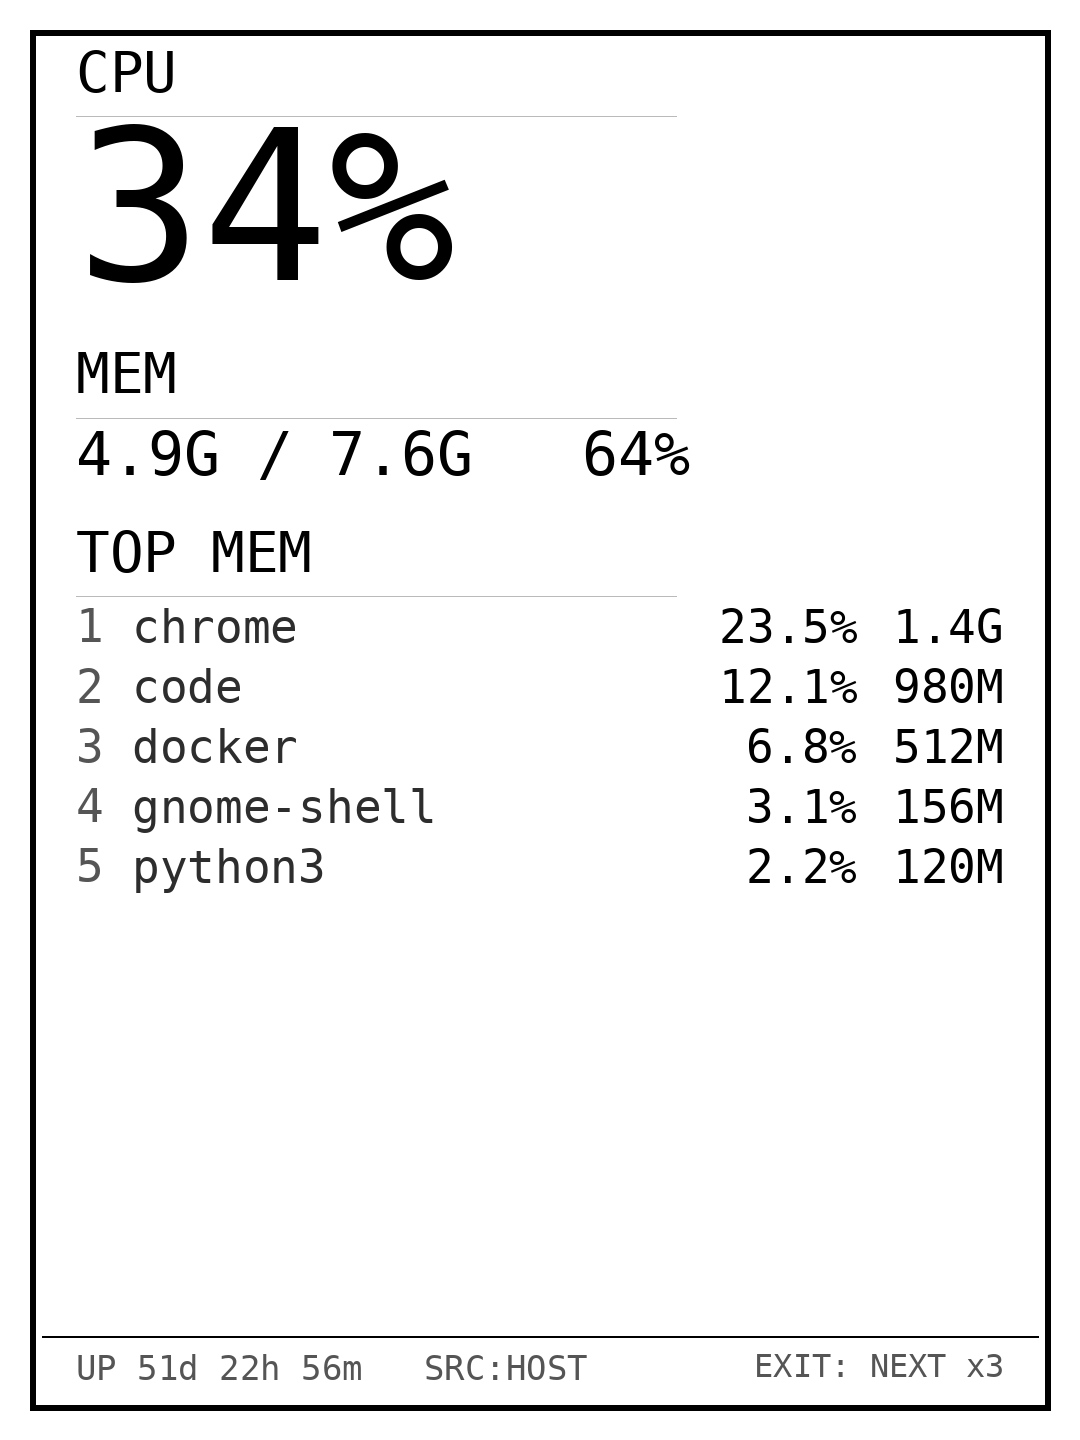
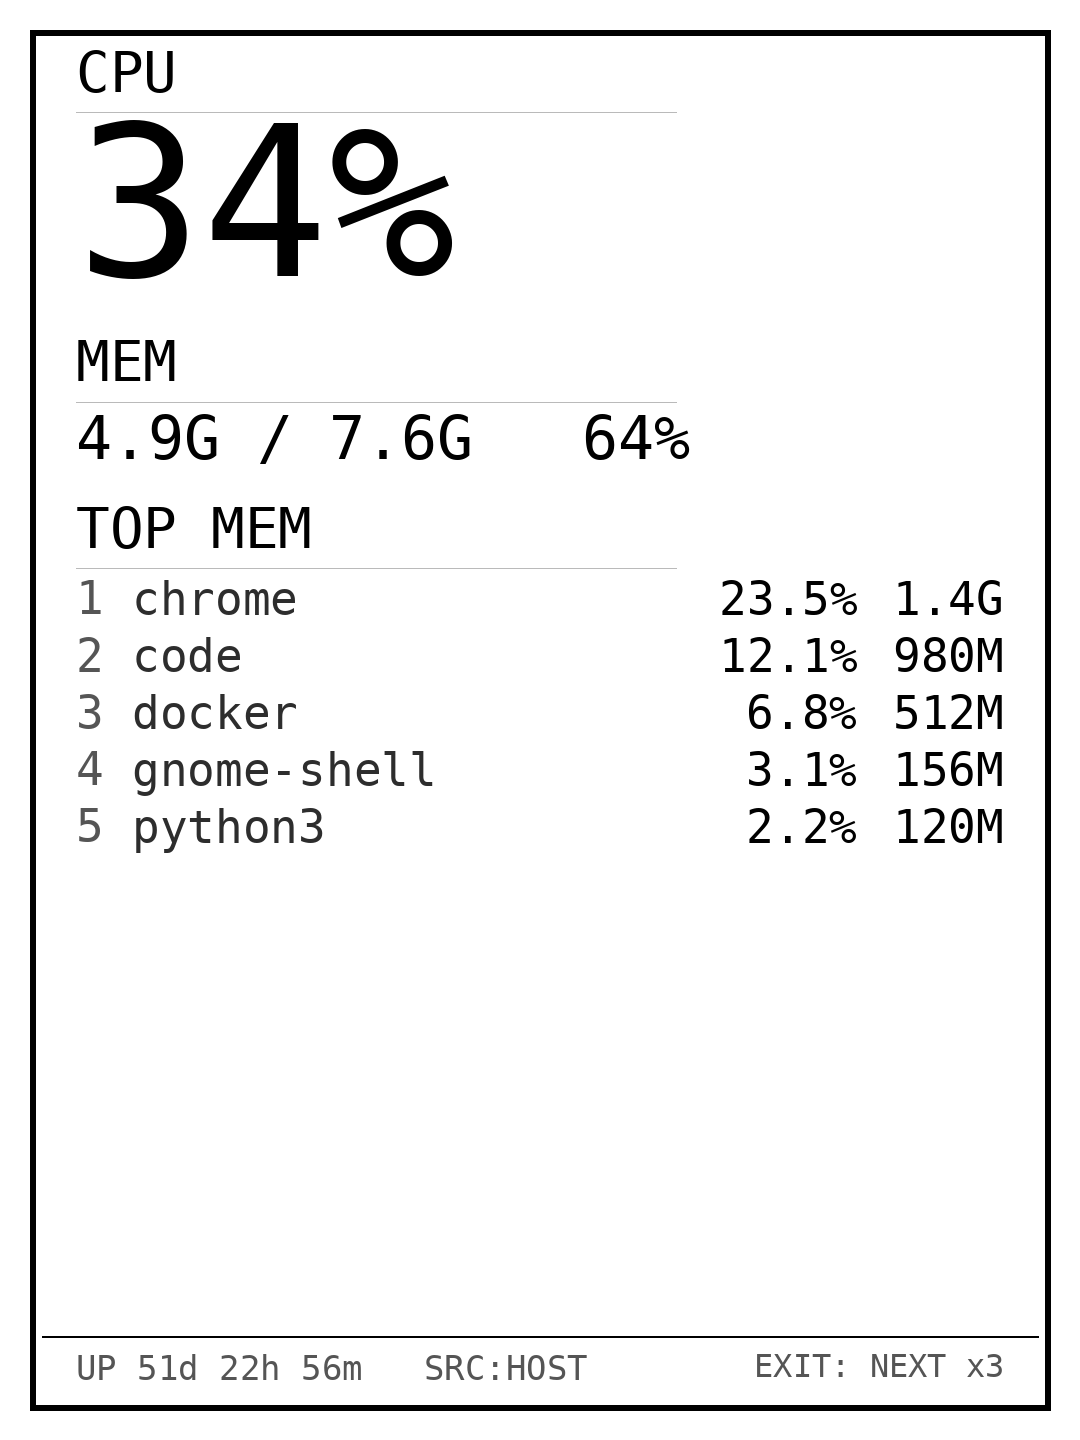
board: plan quota row on top, larger fonts, tighter rhythm

diff --git a/res_cover.py b/res_cover.py
@@ -114,9 +114,9 @@ def _fit(d, s, font, maxw):
 
 def _section_label(d, x, y, label, P, s):
     _text(d, (x, y), label, int(56 * s), P["WHITE"], anchor="lt")
-    d.line([(x, y + int(66 * s)), (x + int(600 * s), y + int(66 * s))],
+    d.line([(x, y + int(62 * s)), (x + int(600 * s), y + int(62 * s))],
            fill=P["DGRAY"] + (255,), width=1)
-    return y + int(78 * s)
+    return y + int(74 * s)
 
 
 # ---- section renderers (design units @1440h, scaled by s) ------------------
@@ -130,7 +130,7 @@ def _sec_cpu(d, x0, xr, y, s, st, P):
     big = "%d%%" % int(round(cpu.get("pct", 0)))
     _text(d, (x0, y - int(4 * s)), big, int(210 * s), P["WHITE"],
           anchor="lt")
-    return y + int(224 * s)
+    return y + int(216 * s)
 
 
 def _sec_mem(d, x0, xr, y, s, st, P):
@@ -143,7 +143,7 @@ def _sec_mem(d, x0, xr, y, s, st, P):
           "%.1fG / %.1fG   %d%%" % (mem.get("usedGB", 0),
                                     mem.get("totalGB", 0), int(pct)),
           int(60 * s), P["WHITE"], anchor="lt")
-    return y + int(100 * s)
+    return y + int(92 * s)
 
 
 def _sec_procs(d, x0, xr, y, s, st, P):
@@ -170,7 +170,7 @@ def _sec_procs(d, x0, xr, y, s, st, P):
               anchor="lt")
         _text(d, (cpua, y), cpus, int(46 * s), P["WHITE"], anchor="rt")
         _text(d, (xr, y), mems, int(46 * s), P["WHITE"], anchor="rt")
-        y += int(60 * s)
+        y += int(57 * s)
     return y
 
 
@@ -182,12 +182,12 @@ def _sec_token(d, x0, xr, y, s, st, P):
     lvl = str(z.get("level") or "?").upper()
     p5 = int(z.get("tokens5hPct") or 0)
     pw = int(z.get("tokensWeekPct") or 0)
-    _text(d, (x0, y), "TOKEN %s" % lvl, int(34 * s), P["LGRAY"], anchor="lt")
-    _text(d, (x0 + int(300 * s), y), "5H %d%%" % (100 - p5),
-          int(40 * s), P["WHITE"], anchor="lt")
+    _text(d, (x0, y), "TOKEN %s" % lvl, int(40 * s), P["LGRAY"], anchor="lt")
+    _text(d, (x0 + int(360 * s), y), "5H %d%%" % (100 - p5),
+          int(52 * s), P["WHITE"], anchor="lt")
     _text(d, (xr, y), "WK %d%%" % (100 - pw),
-          int(40 * s), P["WHITE"], anchor="rt")
-    return y + int(64 * s)
+          int(52 * s), P["WHITE"], anchor="rt")
+    return y + int(74 * s)
 
 
 # ---- main renderer ----------------------------------------------------------
@@ -235,16 +235,13 @@ def render_res_cover(status, w=1080, h=1440, mono=True, theme="dark",
                P["INK"], anchor="mm")
         y = ay + int(56 * s) + int(18 * s)
 
-    # ---- sections; on a short screen the TOP MEM block is dropped first,
-    # ---- never the gauges ----------------------------------------------------
+    # ---- sections; the plan-quota row sits on top (user's primary metric),
+    # ---- on a short screen the TOP MEM block is dropped first ---------------
+    y = _sec_token(d, x0, xr, y, s, status, P)
     y = _sec_cpu(d, x0, xr, y, s, status, P)
     y = _sec_mem(d, x0, xr, y, s, status, P)
-    if y + int(690 * s) < bottom_limit:
+    if y + int(660 * s) < bottom_limit:
         y = _sec_procs(d, x0, xr, y, s, status, P)
-        # TOKEN is the last optional row: on short screens it goes first,
-        # never overlapping the footer rule
-        if y + int(70 * s) < h - m - int(40 * s):
-            y = _sec_token(d, x0, xr, y, s, status, P)
 
     # ---- footer ----------------------------------------------------------------
     fy = h - m - int(56 * s)
